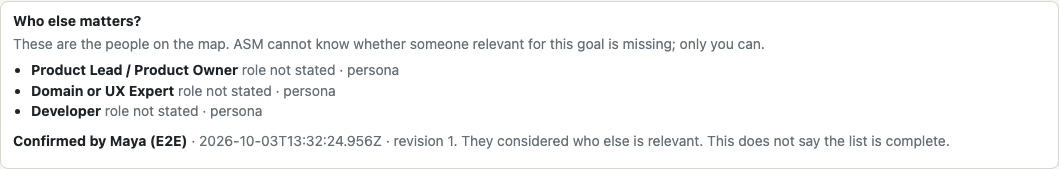
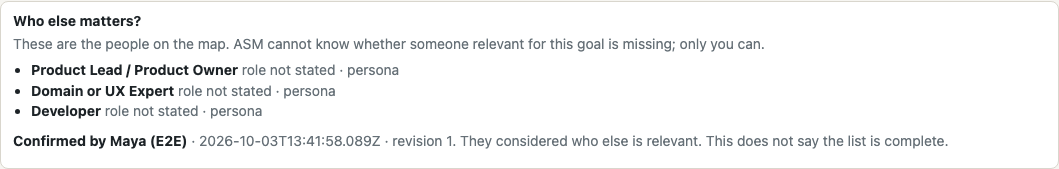
Refresh the gallery at the round-4 repairs (ASM-28)
Docs only: the same 60 browser tests rewrite docs/ at the code of the parent commit.

Changed region(s): [[0.2805, 0.7988, 0.9037, 0.8876]]

diff --git a/docs/examples/asm.work-order.exception.md b/docs/examples/asm.work-order.exception.md
@@ -1,6 +1,6 @@
 # Work order: Steps shared between personas
 
-Slice `slice-shared-steps` of ASM – Agentic Story Mapping, revision 1 (`1be530e3`).
+Slice `slice-shared-steps` of ASM – Agentic Story Mapping, revision 1 (`4f51f837`).
 
 Work order contract: `asm.execution-brief`, briefVersion 3.
 
@@ -10,10 +10,10 @@ Software teams without prior AI experience can move from product discussion to a
 
 ## VERIFIED / APPROVED CONTEXT
 
-- Approved: revision 1 by Maya (E2E) at 2026-10-03T13:31:59.510Z.
-- Who else matters: considered by Maya (E2E) at 2026-10-03T13:31:59.675Z. A named human confirmed that they considered who else is relevant for the goal. That is what they did; it does not say the people on the map are complete.
-- Slice selected by Maya (E2E) at 2026-10-03T13:31:59.724Z (candidate `f66ec7d4`, derivation rules version 2).
-- Value: VALUE_EXCEPTION_ACCEPTED. Exception accepted by Maya (E2E) at 2026-10-03T13:32:00.060Z: “The hand-over points have to work before we can observe which need they serve.” No step of this slice references a need. A named human authorized it anyway. That is a decision under uncertainty, not proof that the slice has business value.
+- Approved: revision 1 by Maya (E2E) at 2026-10-03T13:41:29.286Z.
+- Who else matters: considered by Maya (E2E) at 2026-10-03T13:41:29.442Z. A named human confirmed that they considered who else is relevant for the goal. That is what they did; it does not say the people on the map are complete.
+- Slice selected by Maya (E2E) at 2026-10-03T13:41:29.507Z (candidate `f66ec7d4`, derivation rules version 2).
+- Value: VALUE_EXCEPTION_ACCEPTED. Exception accepted by Maya (E2E) at 2026-10-03T13:41:29.826Z: “The hand-over points have to work before we can observe which need they serve.” No step of this slice references a need. A named human authorized it anyway. That is a decision under uncertainty, not proof that the slice has business value.
 - Verified: nothing. Approved means a named human approved the narrative. ASM has verified nothing: no behaviour described here has been built or tested.
 
 Why this slice:
@@ -110,5 +110,5 @@ A draft derived from the map. A human has to confirm it before it binds anyone.
 
 - Product: ASM – Agentic Story Mapping (`asm`), schema version 1
 - Revision: 1 (approved)
-- Approved by: Maya (E2E) at 2026-10-03T13:31:59.510Z
-- Map fingerprint: `1be530e3`
+- Approved by: Maya (E2E) at 2026-10-03T13:41:29.286Z
+- Map fingerprint: `4f51f837`

diff --git a/docs/examples/first-time.work-order.md b/docs/examples/first-time.work-order.md
@@ -1,6 +1,6 @@
 # Work order: Thread to “Resident reports a problem”
 
-Slice `slice-outcome-thread` of Parcel Locker Pickup, revision 2 (`4f8600c8`).
+Slice `slice-outcome-thread` of Parcel Locker Pickup, revision 2 (`28adac65`).
 
 Work order contract: `asm.execution-brief`, briefVersion 3.
 
@@ -10,9 +10,9 @@ Residents collect a parcel from the building locker without waiting for a courie
 
 ## VERIFIED / APPROVED CONTEXT
 
-- Approved: revision 2 by Noor (first-time Product Lead) at 2026-10-03T13:32:02.483Z.
-- Who else matters: considered by Noor (first-time Product Lead) at 2026-10-03T13:32:02.800Z. A named human confirmed that they considered who else is relevant for the goal. That is what they did; it does not say the people on the map are complete.
-- Slice selected by Noor (first-time Product Lead) at 2026-10-03T13:32:03.018Z (candidate `f532f5ce`, derivation rules version 2).
+- Approved: revision 2 by Noor (first-time Product Lead) at 2026-10-03T13:41:32.595Z.
+- Who else matters: considered by Noor (first-time Product Lead) at 2026-10-03T13:41:32.931Z. A named human confirmed that they considered who else is relevant for the goal. That is what they did; it does not say the people on the map are complete.
+- Slice selected by Noor (first-time Product Lead) at 2026-10-03T13:41:33.128Z (candidate `f532f5ce`, derivation rules version 2).
 - Value: VALUE_RESOLVED (`need-get-my-parcel-on-the-day-it-arrives-when`, `need-hand-over-every-parcel-in-one-stop`). The slice references at least one need on the map. ASM has not measured any business value.
 - Verified: nothing. Approved means a named human approved the narrative. ASM has verified nothing: no behaviour described here has been built or tested.
 
@@ -79,5 +79,5 @@ A draft derived from the map. A human has to confirm it before it binds anyone.
 
 - Product: Parcel Locker Pickup (`parcel-locker-pickup`), schema version 1
 - Revision: 2 (approved)
-- Approved by: Noor (first-time Product Lead) at 2026-10-03T13:32:02.483Z
-- Map fingerprint: `4f8600c8`
+- Approved by: Noor (first-time Product Lead) at 2026-10-03T13:41:32.595Z
+- Map fingerprint: `28adac65`

diff --git a/docs/examples/asm.work-order.md b/docs/examples/asm.work-order.md
@@ -1,6 +1,6 @@
 # Work order: Thread to “Export execution-ready work”
 
-Slice `slice-outcome-thread` of ASM – Agentic Story Mapping, revision 3 (`2411f173`).
+Slice `slice-outcome-thread` of ASM – Agentic Story Mapping, revision 3 (`bdbdd611`).
 
 Work order contract: `asm.execution-brief`, briefVersion 3.
 
@@ -10,9 +10,9 @@ Software teams without prior AI experience can move from product discussion to a
 
 ## VERIFIED / APPROVED CONTEXT
 
-- Approved: revision 3 by Maya (E2E) at 2026-10-03T13:31:57.491Z.
-- Who else matters: considered by Maya (E2E) at 2026-10-03T13:31:57.856Z. A named human confirmed that they considered who else is relevant for the goal. That is what they did; it does not say the people on the map are complete.
-- Slice selected by Maya (E2E) at 2026-10-03T13:31:58.121Z (candidate `ef5f52e6`, derivation rules version 2).
+- Approved: revision 3 by Maya (E2E) at 2026-10-03T13:41:27.110Z.
+- Who else matters: considered by Maya (E2E) at 2026-10-03T13:41:27.518Z. A named human confirmed that they considered who else is relevant for the goal. That is what they did; it does not say the people on the map are complete.
+- Slice selected by Maya (E2E) at 2026-10-03T13:41:27.834Z (candidate `ef5f52e6`, derivation rules version 2).
 - Value: VALUE_RESOLVED (`need-shared-narrative`, `need-approve-meaning`, `need-buildable-slice`, `need-stable-references`). The slice references at least one need on the map. ASM has not measured any business value.
 - Verified: nothing. Approved means a named human approved the narrative. ASM has verified nothing: no behaviour described here has been built or tested.
 
@@ -102,5 +102,5 @@ A draft derived from the map. A human has to confirm it before it binds anyone.
 
 - Product: ASM – Agentic Story Mapping (`asm`), schema version 1
 - Revision: 3 (approved)
-- Approved by: Maya (E2E) at 2026-10-03T13:31:57.491Z
-- Map fingerprint: `2411f173`
+- Approved by: Maya (E2E) at 2026-10-03T13:41:27.110Z
+- Map fingerprint: `bdbdd611`

diff --git a/docs/examples/full-user-flow.work-order.md b/docs/examples/full-user-flow.work-order.md
@@ -1,6 +1,6 @@
 # Work order: Resident path
 
-Slice `slice-primary-persona` of Parcel lockers, revision 2 (`f7074d78`).
+Slice `slice-primary-persona` of Parcel lockers, revision 2 (`1c6329ee`).
 
 Work order contract: `asm.execution-brief`, briefVersion 3.
 
@@ -10,9 +10,9 @@ Residents collect a parcel without waiting for a courier. (`goal-parcel-lockers`
 
 ## VERIFIED / APPROVED CONTEXT
 
-- Approved: revision 2 by Maya (Product Lead) at 2026-10-03T13:32:05.981Z.
-- Who else matters: considered by Maya (Product Lead) at 2026-10-03T13:32:06.181Z. A named human confirmed that they considered who else is relevant for the goal. That is what they did; it does not say the people on the map are complete.
-- Slice selected by Maya (Product Lead) at 2026-10-03T13:32:06.381Z (candidate `4ce9e53f`, derivation rules version 2).
+- Approved: revision 2 by Maya (Product Lead) at 2026-10-03T13:41:36.550Z.
+- Who else matters: considered by Maya (Product Lead) at 2026-10-03T13:41:37.014Z. A named human confirmed that they considered who else is relevant for the goal. That is what they did; it does not say the people on the map are complete.
+- Slice selected by Maya (Product Lead) at 2026-10-03T13:41:37.259Z (candidate `4ce9e53f`, derivation rules version 2).
 - Value: VALUE_RESOLVED (`need-get-my-parcel-on-the-day-it-arrives`, `need-know-when-something-has-arrived`). The slice references at least one need on the map. ASM has not measured any business value.
 - Verified: nothing. Approved means a named human approved the narrative. ASM has verified nothing: no behaviour described here has been built or tested.
 
@@ -74,5 +74,5 @@ A draft derived from the map. A human has to confirm it before it binds anyone.
 
 - Product: Parcel lockers (`parcel-lockers`), schema version 1
 - Revision: 2 (approved)
-- Approved by: Maya (Product Lead) at 2026-10-03T13:32:05.981Z
-- Map fingerprint: `f7074d78`
+- Approved by: Maya (Product Lead) at 2026-10-03T13:41:36.550Z
+- Map fingerprint: `1c6329ee`
